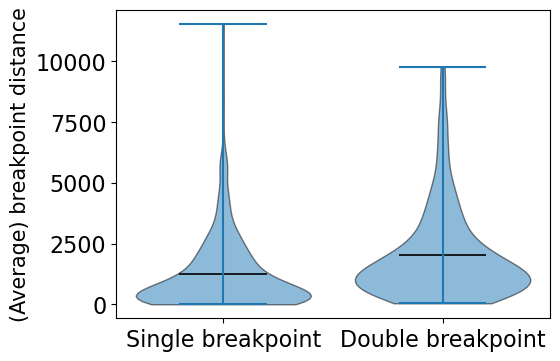
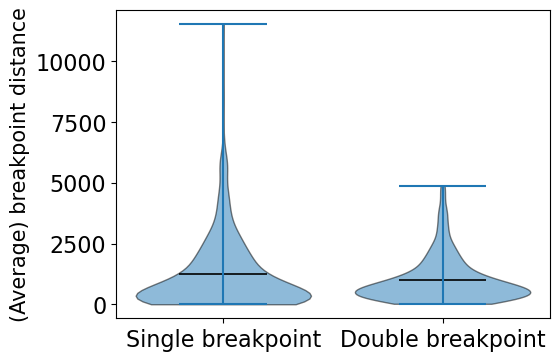
reorganizing some files

Changed region(s): [[0.6071, 0.1828, 0.9714, 0.8532]]

diff --git a/analyze-sim-results/analyze_sim_results-2.py b/analyze-sim-results/analyze_sim_results-2.py
@@ -95,25 +95,19 @@ match_number_2 = 0
 
 # Calculate distances
 for i in range(n_cases):
-    true_bps = breakpoints[i]
-    inferred_bps = inferred_breakpoints_list[i]
+    true_bps = np.sort(np.asarray(breakpoints[i]))
+    inf_bps  = np.sort(np.asarray(inferred_breakpoints_list[i]))
 
-    if len(true_bps) == len(inferred_bps):
+    if len(true_bps) == len(inf_bps) == 1:
+        match_number_1 += 1
+        d = np.abs(inf_bps[0] - true_bps[0])
+        breakpoint_distances_single.append(float(d))
 
-        if len(true_bps) == 1:
-            # Just compute single absolute distance
-            match_number_1 += 1
-            breakpoint_distances_single.append(np.abs(inferred_bps[0] - true_bps[0]))
-
-        elif len(true_bps) == 2:
-            # Choose ordering that minimizes total absolute distance
-            match_number_2 += 1
-            dist1 = np.sum([np.abs(inferred_bps[0] - true_bps[0]), np.abs(inferred_bps[1] - true_bps[1])])
-            dist2 = np.sum([np.abs(inferred_bps[1] - true_bps[0]), np.abs(inferred_bps[0] - true_bps[1])])
-            if dist1 <= dist2:
-                breakpoint_distances_double.append(dist1)
-            else:
-                breakpoint_distances_double.append(dist2)
+    elif len(true_bps) == len(inf_bps) == 2:
+        match_number_2 += 1
+        # Pair by 5'→3' order and take the per-recombinant mean
+        d = np.abs(inf_bps - true_bps)          # elementwise: [|hat1-t1|, |hat2-t2|]
+        breakpoint_distances_double.append(float(d.mean()))
 
 boot_dist_single = []
 boot_dist_double = []
